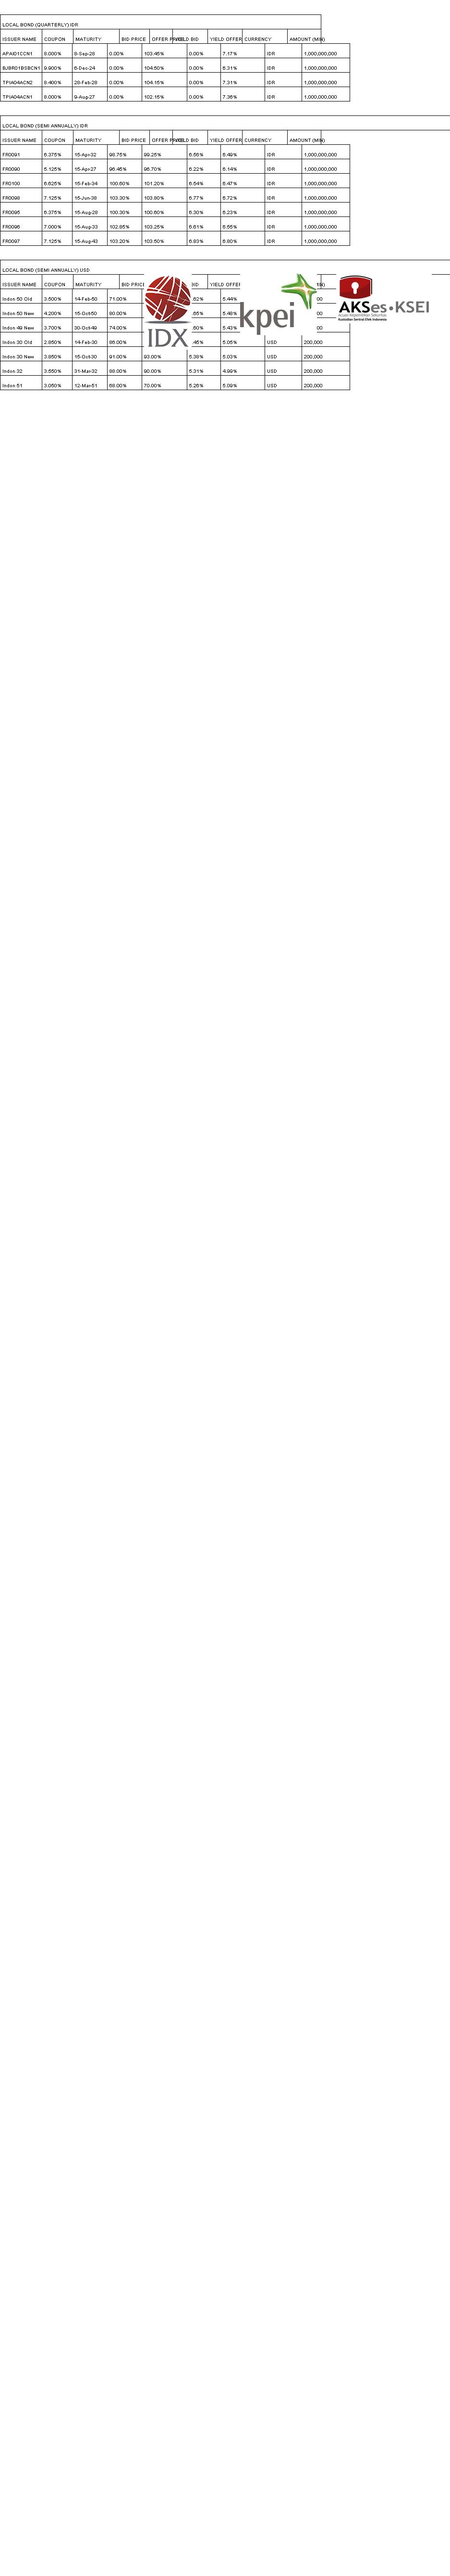
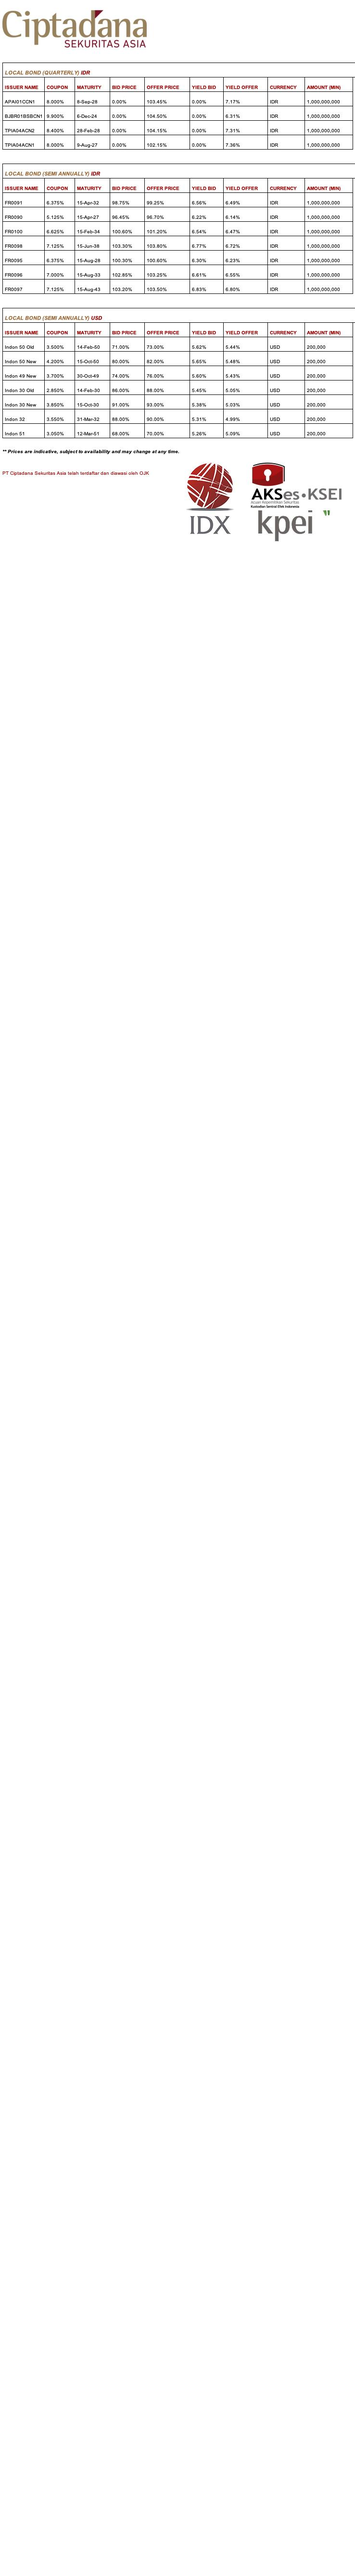
commit

Changed region(s): [[0.0, 0.0, 0.9661, 0.2183]]

diff --git a/src/main/java/com/ciptadana/uploadfixincome/IncomeService.java b/src/main/java/com/ciptadana/uploadfixincome/IncomeService.java
@@ -23,72 +23,18 @@ import java.util.stream.Collectors;
 public class IncomeService {
     String excelFilePath = "Upload_Fixed_Income_20230906.xls";
     String imageOutputPath = "excel/output.jpeg";
-    BufferedImage IDX;
-    BufferedImage KPEI;
-    BufferedImage KSEI;
+    BufferedImage idxImage;
+    BufferedImage kpeiImage;
+    BufferedImage kseiImage;
+    BufferedImage ciptadanaImage;
+    Color brown = new Color(154,102,51);
+    Color red = new Color(154,1,0);
 
     public void init() throws IOException{
-        IDX = ImageIO.read(new File("asset/IDX.png"));
-        KPEI = ImageIO.read(new File("asset/KPEI.jpg"));
-        KSEI = ImageIO.read(new File("asset/KSEI.png"));
-    }
-
-   // @PostConstruct
-    public void convertExcelToImage2() throws IOException {
-        try (FileInputStream fis = new FileInputStream(new File(excelFilePath))) {
-
-            Workbook workbook;
-            if (excelFilePath.endsWith(".xls")) {
-                workbook = new HSSFWorkbook(fis);
-            } else if (excelFilePath.endsWith(".xlsx")) {
-                workbook = new XSSFWorkbook(fis);
-            } else {
-                throw new IllegalArgumentException("Invalid file type");
-            }
-
-            Sheet sheet = workbook.getSheetAt(0);
-
-            int totalWidth = 0;
-            short maxColumns = sheet.getRow(0).getLastCellNum();
-            for (int i = 0; i < maxColumns; i++) {
-                totalWidth += sheet.getColumnWidthInPixels(i);
-            }
-
-            int totalHeight = 0;
-            for (int i = 0; i < sheet.getPhysicalNumberOfRows(); i++) {
-                totalHeight += sheet.getRow(i).getHeight();
-            }
-
-            BufferedImage image = new BufferedImage(totalWidth, totalHeight, BufferedImage.TYPE_INT_RGB);
-            Graphics2D graphics = image.createGraphics();
-            graphics.setColor(Color.WHITE);
-            graphics.fillRect(0, 0, totalWidth, totalHeight);
-
-            graphics.setFont(new Font("Arial", Font.PLAIN, 10)); // Adjust font size and style as needed
-
-            int yPosition = 0;
-            for (int i = 0; i < sheet.getPhysicalNumberOfRows(); i++) {
-                Row row = sheet.getRow(i);
-                int xPosition = 0;
-                for (int j = 0; j < row.getLastCellNum(); j++) {
-                    Cell cell = row.getCell(j);
-                    if (cell != null) {
-                        int cellWidth = (int) sheet.getColumnWidthInPixels(j);
-                        int cellHeight = row.getHeight();
-                        String cellValue = new DataFormatter().formatCellValue(cell);
-                        System.out.println(cellValue);
-                        graphics.setColor(Color.BLACK);
-                        graphics.drawRect(xPosition, yPosition, cellWidth, cellHeight);
-                        graphics.drawString(cellValue, xPosition + 5, yPosition + cellHeight - 5); // Add some padding
-                    }
-                    xPosition += sheet.getColumnWidthInPixels(j);
-                }
-                yPosition += sheet.getRow(i).getHeight();
-            }
-
-            graphics.dispose();
-            ImageIO.write(image, "jpeg", new File(imageOutputPath));
-        }
+        idxImage = ImageIO.read(new File("asset/IDX.png"));
+        kpeiImage = ImageIO.read(new File("asset/KPEI.jpg"));
+        kseiImage = ImageIO.read(new File("asset/KSEI.png"));
+        ciptadanaImage = ImageIO.read(new File("asset/ciptadana.png"));
     }
 
     @PostConstruct
@@ -110,8 +56,12 @@ public class IncomeService {
             int totalWidth = 0;
             short maxColumns = sheet.getRow(0).getLastCellNum();
             for (int i = 0; i < maxColumns; i++) {
-                totalWidth += sheet.getColumnWidthInPixels(i);
+                if(!(i == 1 | i == 2 | i == 4)){
+                    totalWidth += sheet.getColumnWidthInPixels(i);
+                }
+
             }
+            totalWidth += 10;
 
             int totalHeight = 0;
             for (int i = 0; i < sheet.getPhysicalNumberOfRows(); i++) {
@@ -122,7 +72,6 @@ public class IncomeService {
             Graphics2D graphics = image.createGraphics();
             graphics.setColor(Color.WHITE);
             graphics.fillRect(0, 0, totalWidth, totalHeight);
-
             graphics.setFont(new Font("Arial", Font.PLAIN, 10)); // Adjust font size and style as needed
 
             int yPosition = 0;
@@ -146,31 +95,11 @@ public class IncomeService {
                         .build();
 
                 fixIncomes.add(fixIncome);
-
-/*                for (int j = 0; j < row.getLastCellNum(); j++) {
-                    Cell cell = row.getCell(j);
-                    if (cell != null) {
-                        int cellWidth = (int) sheet.getColumnWidthInPixels(j);
-                        int cellHeight = row.getHeight();
-                        String cellValue = new DataFormatter().formatCellValue(cell);
-
-
-                        if(!cellValue.equalsIgnoreCase("")){
-                            //System.out.println(cellValue);
-                            graphics.setColor(Color.BLACK);
-                            graphics.drawRect(xPosition, yPosition, cellWidth, cellHeight);
-                            graphics.drawString(cellValue, xPosition + 5, yPosition + cellHeight - 5); // Add
-                        }
-                    }
-                    xPosition += sheet.getColumnWidthInPixels(j);
-                }
-                yPosition += 30;*/
             }
 
             int cellHeight = 30;
             int textPadding = 5;
-            int headerHeight = 30; // or any value suitable for your needs
-            int headerPadding = 5; // p
+
 
             HashMap<String, HashMap<String, List<FixIncome>>> fixIncomeByCurrencyAndType =
                     fixIncomes.stream()
@@ -181,15 +110,16 @@ public class IncomeService {
                             ));
 
             int cellColumn = 0;
+            graphics.drawImage(ciptadanaImage, 5, 20, null);
+            yPosition = ciptadanaImage.getHeight() + 20;
+
             for (String currency : fixIncomeByCurrencyAndType.keySet()) {
 
                 Row headerRow = sheet.getRow(2);
                 //String[] headers = new String[headerRow.getLastCellNum()];
                 List<String> headers = new ArrayList<>();
                 for (int i = 0; i < headerRow.getLastCellNum(); i++) {
-                  if(!(i == 1 || i == 2 | i == 4)){
-                      headers.add(new DataFormatter().formatCellValue(headerRow.getCell(i)));
-                  }
+                    headers.add(new DataFormatter().formatCellValue(headerRow.getCell(i)));
                 }
 
 
@@ -198,13 +128,14 @@ public class IncomeService {
                 HashMap<String, List<FixIncome>> fixIncomeMap = fixIncomeByCurrencyAndType.get(currency);
                 for(String type : fixIncomeMap.keySet()){
                     List<FixIncome> incomes = fixIncomeMap.get(type);
-                    int xPositionHeader = 0;
+                    int xPositionHeader = 5;
 
                     for (int j = 0; j < headers.size(); j++) {
                         cellColumn += (int) sheet.getColumnWidthInPixels(j);
                     }
                     yPosition += cellHeight;
                     for (int j = 0; j < headers.size(); j++) {
+
                         int cellWidth = (int) sheet.getColumnWidthInPixels(j);
                         if(j == 0){
                             graphics.setColor(Color.BLACK);
@@ -212,28 +143,42 @@ public class IncomeService {
 
                             graphics.setColor(Color.BLACK);
                             System.out.println( type);
-                            graphics.drawString(generateTitle(type).concat(" " + currency.toUpperCase()), xPositionHeader + textPadding, yPosition + cellHeight - textPadding);
+                            graphics.setFont(new Font("Arial", Font.BOLD, 11).deriveFont(Font.BOLD | Font.ITALIC));
+                            graphics.setColor(brown);
+                            String title = generateTitle(type);
+                            graphics.drawString(title, xPositionHeader + textPadding, yPosition + cellHeight - textPadding);
+
+
+                            int titleWidth = graphics.getFontMetrics().stringWidth(title);
+
+                            graphics.setColor(red);
+                            graphics.drawString(" " + currency.toUpperCase(), xPositionHeader + textPadding + titleWidth, yPosition + cellHeight - textPadding);
                             yPosition += cellHeight;
                         }
 
-                        graphics.setColor(Color.BLACK);
-                        graphics.drawRect(xPositionHeader, yPosition, cellWidth, cellHeight);
+                        if(!(j == 1 || j == 2 || j == 4)){
+                            graphics.setFont(new Font("Arial", Font.PLAIN, 10));
+                            graphics.setColor(Color.BLACK);
+                            graphics.drawRect(xPositionHeader, yPosition, cellWidth, cellHeight);
 
-                        graphics.setColor(Color.BLACK);
-                        graphics.drawString(headers.get(j), xPositionHeader + textPadding, yPosition + cellHeight - textPadding);
+                            graphics.setColor(red);
+                            graphics.setFont(new Font("Arial", Font.BOLD, 10));
+                            graphics.drawString(headers.get(j), xPositionHeader + textPadding, yPosition + cellHeight - textPadding);
 
-                        xPositionHeader += cellWidth;
+                            xPositionHeader += cellWidth;
+                        }
                     }
                     yPosition += cellHeight;
 
 
 
                     for (FixIncome income : incomes) {
-                        int xPosition = 0;
+                        int xPosition = 5;
                         for (int j = 0; j < 12; j++) { // 12 fields in FixIncome
 
                             if(!(j == 1 || j == 2 | j == 4)){
                                 int cellWidth = (int) sheet.getColumnWidthInPixels(j);
+                                graphics.setFont(new Font("Arial", Font.PLAIN, 10));
                                 graphics.setColor(Color.BLACK);
                                 graphics.drawRect(xPosition, yPosition, cellWidth, cellHeight);
 
@@ -246,28 +191,26 @@ public class IncomeService {
                             }
                         }
                         yPosition += cellHeight;
-                        graphics.drawString(" ", xPosition + textPadding, yPosition + cellHeight - textPadding);
                     }
                    // yPosition += cellHeight;
                 }
             }
 
-/*            // Draw image at the top-right corner
-            graphics.drawImage(IDX, canvasWidth, 0, null);
-
-            // Draw image at the bottom-left corner
-            graphics.drawImage(IDX, 0, canvasHeight, null);
-
-            // Draw image at the bottom-right corner*/
 
 
 
             cellColumn = cellColumn / 3;
-            graphics.drawImage(IDX,  300, cellColumn - 100, null);
-            graphics.drawImage(KPEI, 500, cellColumn - 100, null);
-            graphics.drawImage(KSEI, 700, cellColumn - 100, null);
 
+            graphics.setFont(new Font("Arial", Font.BOLD, 10).deriveFont(Font.BOLD | Font.ITALIC));
+            graphics.setColor(Color.BLACK);
+            graphics.drawString("** Prices are indicative, subject to availability and may change at any time.", textPadding, cellColumn + 5);
+            graphics.drawImage(idxImage,  cellColumn - 550, cellColumn + 20, null);
+            graphics.drawImage(kpeiImage, cellColumn - 400, cellColumn + 60, null);
+            graphics.drawImage(kseiImage, cellColumn - 420, cellColumn + 20, null);
 
+            graphics.setFont(new Font("Arial", Font.PLAIN, 10));
+            graphics.setColor(red);
+            graphics.drawString("PT Ciptadana Sekuritas Asia telah terdaftar dan diawasi oleh OJK", textPadding, cellColumn + 50);
             graphics.dispose();
             ImageIO.write(image, "jpeg", new File(imageOutputPath));
 
